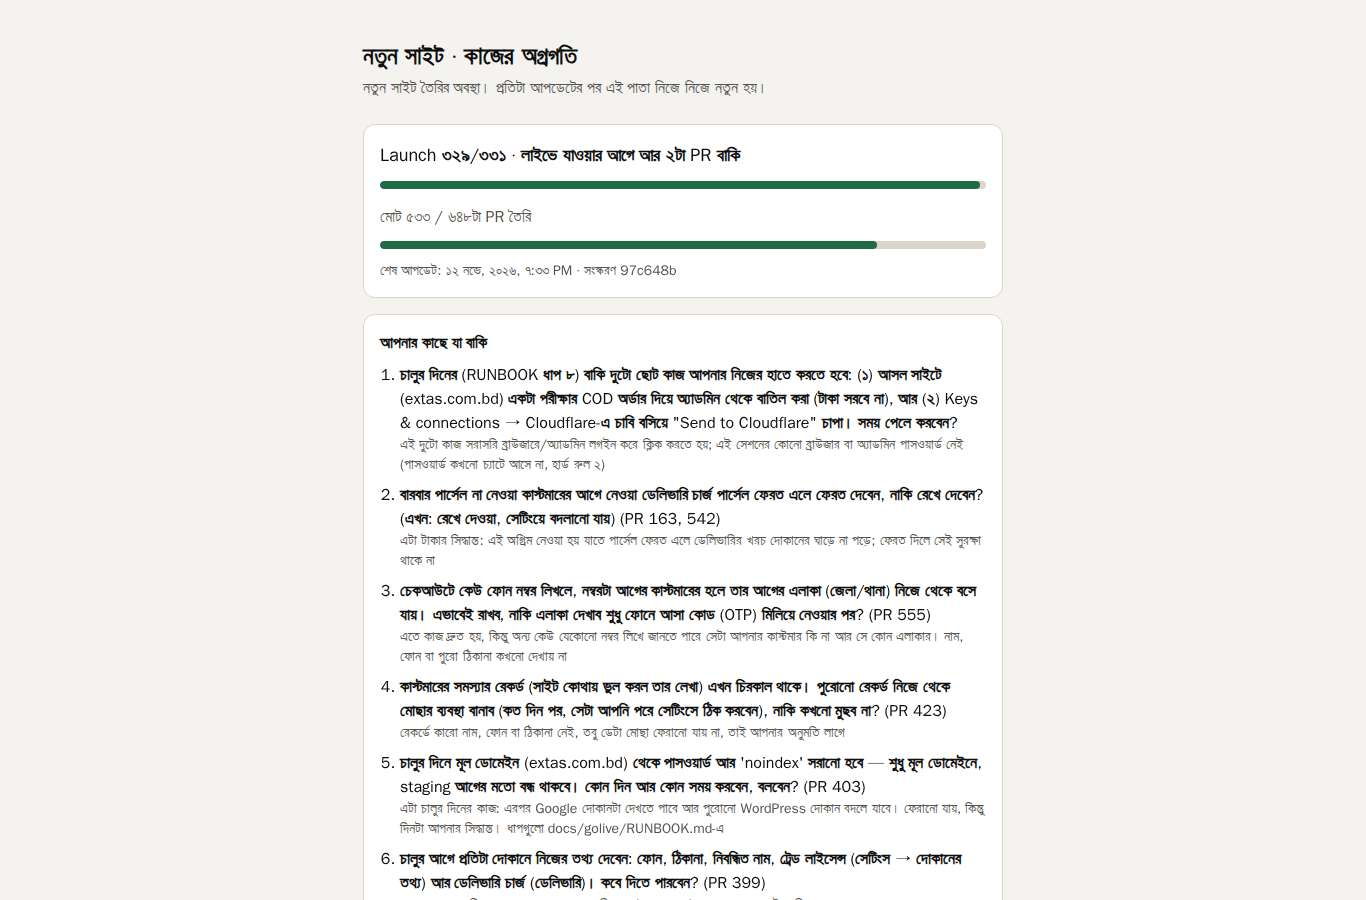
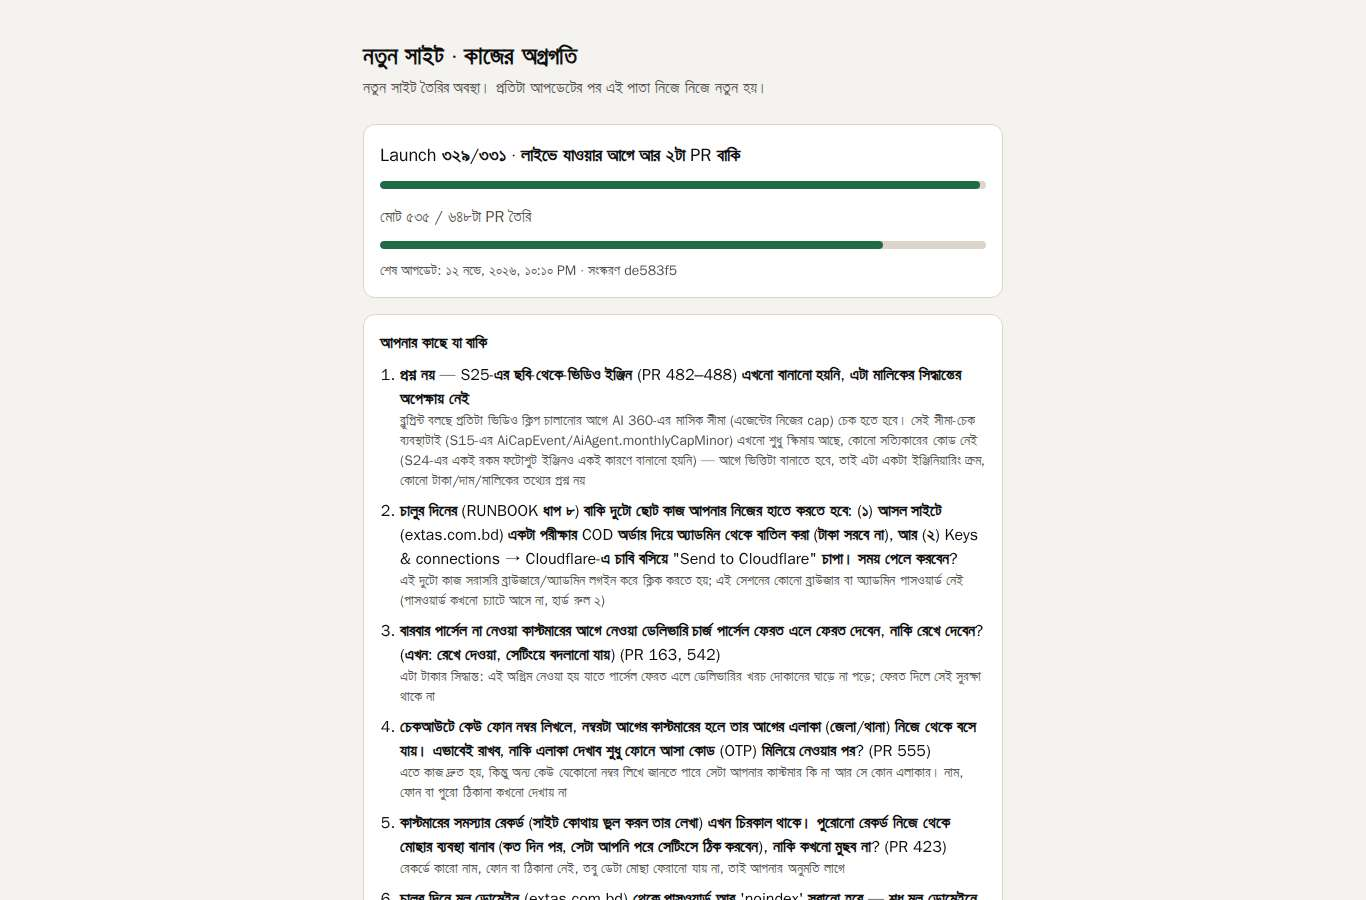
deploy report: de583f5687e9 FAILED, ROLLED BACK [skip ci]

Changed region(s): [[0.2767, 0.4044, 0.7379, 1.0], [0.369, 0.28, 0.4919, 0.3111]]

diff --git a/docs/reports/smoke/latest/README.md b/docs/reports/smoke/latest/README.md
@@ -1,8 +1,8 @@
-# Smoke test · 2026-11-12 20:25 (Asia/Dhaka)
+# Smoke test · 2026-11-12 22:10 (Asia/Dhaka)
 
-> **বাংলায়:** সব পাতা ঠিকমতো খুলেছে (566টা পাতা, ফোন আর কম্পিউটারে)। কোনো সমস্যা নেই।
+> **বাংলায়:** 0টা পাতায় সমস্যা পাওয়া গেছে। সাইট নিজে থেকে আগের ভালো ভার্সনে ফিরে যাচ্ছে; ঠিক করার কাজ সবার আগে হচ্ছে।
 
-Site: https://new.extas.com.bd · commit `97c648bfa222` · nightly · result **PASS** (566 page views, 0 failed)
+Site: https://new.extas.com.bd · commit `de583f5687e9` · after deploy · result **FAIL** (565 page views, 0 failed)
 
 | Page | Screen | Answer | Landed on | Result | Screenshot |
 |---|---|:-:|---|---|---|
@@ -186,6 +186,7 @@ Site: https://new.extas.com.bd · commit `97c648bfa222` · nightly · result **P
 | `/admin/reports/health/history` | phone | 200 | `/admin/reports/health/history` | ok | — |
 | `/admin/reports/health/fixes` | phone | 200 | `/admin/reports/health/fixes` | ok | — |
 | `/admin/ai/audit` | phone | 200 | `/admin/ai/audit` | ok | — |
+| `/admin/ai/reports` | phone | 200 | `/admin/ai/reports` | ok | — |
 | `/admin/money/refunds` | phone | 200 | `/admin/money/refunds` | ok | — |
 | `/admin/money/refunds?view=all` | phone | 200 | `/admin/money/refunds` | ok | — |
 | `/admin/reports/delivery` | phone | 200 | `/admin/reports/delivery` | ok | — |
@@ -231,6 +232,7 @@ Site: https://new.extas.com.bd · commit `97c648bfa222` · nightly · result **P
 | `/admin/marketing/studio` | phone | 200 | `/admin/marketing/studio` | ok | — |
 | `/admin/marketing/studio/motion` | phone | 200 | `/admin/marketing/studio/motion` | ok | — |
 | `/admin/marketing/studio/videos` | phone | 200 | `/admin/marketing/studio/videos` | ok | — |
+| `/admin/marketing/studio/overlay` | phone | 200 | `/admin/marketing/studio/overlay` | ok | — |
 | `/admin/website/words` | phone | 200 | `/admin/website/words` | ok | — |
 | `/admin/website/eye-toggles` | phone | 200 | `/admin/website/eye-toggles` | ok | — |
 | `/admin/website/side-canvas` | phone | 200 | `/admin/website/side-canvas` | ok | — |
@@ -282,11 +284,6 @@ Site: https://new.extas.com.bd · commit `97c648bfa222` · nightly · result **P
 | `/admin/website/blog/pipeline` | phone | 200 | `/admin/website/blog/pipeline` | ok | — |
 | `/admin/marketing/geo-guide` | phone | 200 | `/admin/marketing/geo-guide` | ok | — |
 | `/admin/marketing/merchant-feed` | phone | 200 | `/admin/marketing/merchant-feed` | ok | — |
-| `/admin/orders/01a1b61a-a11b-7d82-bdea-f4c089401719` | phone | 200 | `/admin/orders/01a1b61a-a11b-7d82-bdea-f4c089401719` | ok | — |
-| `/admin/customers/01a1b61a-a118-7bf3-acad-0f8b6b421a94` | phone | 200 | `/admin/customers/01a1b61a-a118-7bf3-acad-0f8b6b421a94` | ok | — |
-| `/admin/reports/health/problems/01a19735-6496-70c1-9ccd-6741cd32073a` | phone | 200 | `/admin/reports/health/problems/01a19735-6496-70c1-9ccd-6741cd32073a` | ok | — |
-| `/admin/reports/health/history/01a1cfdc-04f8-75d3-a735-4b86239313f0` | phone | 200 | `/admin/reports/health/history/01a1cfdc-04f8-75d3-a735-4b86239313f0` | ok | — |
-| `/admin/customers/01a1b61a-a118-7bf3-acad-0f8b6b421a94?tab=wallet` | phone | 200 | `/admin/customers/01a1b61a-a118-7bf3-acad-0f8b6b421a94` | ok | — |
 | `/admin/combos?tab=report` | phone | 200 | `/admin/combos` | ok | — |
 | `/admin?home=1` | phone | 200 | `/admin` | ok | [picture](admin-home-1-phone.jpg) |
 | `/` | desktop | 200 | `/` | ok | [picture](home-desktop.jpg) |
@@ -469,6 +466,7 @@ Site: https://new.extas.com.bd · commit `97c648bfa222` · nightly · result **P
 | `/admin/reports/health/history` | desktop | 200 | `/admin/reports/health/history` | ok | — |
 | `/admin/reports/health/fixes` | desktop | 200 | `/admin/reports/health/fixes` | ok | — |
 | `/admin/ai/audit` | desktop | 200 | `/admin/ai/audit` | ok | — |
+| `/admin/ai/reports` | desktop | 200 | `/admin/ai/reports` | ok | — |
 | `/admin/money/refunds` | desktop | 200 | `/admin/money/refunds` | ok | — |
 | `/admin/money/refunds?view=all` | desktop | 200 | `/admin/money/refunds` | ok | — |
 | `/admin/reports/delivery` | desktop | 200 | `/admin/reports/delivery` | ok | — |
@@ -514,6 +512,7 @@ Site: https://new.extas.com.bd · commit `97c648bfa222` · nightly · result **P
 | `/admin/marketing/studio` | desktop | 200 | `/admin/marketing/studio` | ok | — |
 | `/admin/marketing/studio/motion` | desktop | 200 | `/admin/marketing/studio/motion` | ok | — |
 | `/admin/marketing/studio/videos` | desktop | 200 | `/admin/marketing/studio/videos` | ok | — |
+| `/admin/marketing/studio/overlay` | desktop | 200 | `/admin/marketing/studio/overlay` | ok | — |
 | `/admin/website/words` | desktop | 200 | `/admin/website/words` | ok | — |
 | `/admin/website/eye-toggles` | desktop | 200 | `/admin/website/eye-toggles` | ok | — |
 | `/admin/website/side-canvas` | desktop | 200 | `/admin/website/side-canvas` | ok | — |
@@ -568,9 +567,20 @@ Site: https://new.extas.com.bd · commit `97c648bfa222` · nightly · result **P
 | `/admin/orders/01a1b61a-a11b-7d82-bdea-f4c089401719` | desktop | 200 | `/admin/orders/01a1b61a-a11b-7d82-bdea-f4c089401719` | ok | — |
 | `/admin/customers/01a1b61a-a118-7bf3-acad-0f8b6b421a94` | desktop | 200 | `/admin/customers/01a1b61a-a118-7bf3-acad-0f8b6b421a94` | ok | — |
 | `/admin/reports/health/problems/01a19735-6496-70c1-9ccd-6741cd32073a` | desktop | 200 | `/admin/reports/health/problems/01a19735-6496-70c1-9ccd-6741cd32073a` | ok | — |
-| `/admin/reports/health/history/01a1cfdc-04f8-75d3-a735-4b86239313f0` | desktop | 200 | `/admin/reports/health/history/01a1cfdc-04f8-75d3-a735-4b86239313f0` | ok | — |
+| `/admin/reports/health/history/01a1d038-f87e-79a3-a768-344efda63018` | desktop | 200 | `/admin/reports/health/history/01a1d038-f87e-79a3-a768-344efda63018` | ok | — |
 | `/admin/customers/01a1b61a-a118-7bf3-acad-0f8b6b421a94?tab=wallet` | desktop | 200 | `/admin/customers/01a1b61a-a118-7bf3-acad-0f8b6b421a94` | ok | — |
 | `/admin/combos?tab=report` | desktop | 200 | `/admin/combos` | ok | — |
 | `/admin?home=1` | desktop | 200 | `/admin` | ok | [picture](admin-home-1-desktop.jpg) |
+
+Other problems:
+
+- check (PR 643): Money › Books (the ERP account) draws in the Lumen look and follows dark mode (CN-036): page.waitForSelector: Timeout 15000ms exceeded.
+- check (PR 643): Money › Daily books draws in the Lumen look and follows dark mode (CN-036): page.waitForSelector: Timeout 15000ms exceeded.
+- check (PR 643): Money › Books match draws in the Lumen look and follows dark mode (CN-036): page.waitForSelector: Timeout 15000ms exceeded.
+- check (PR 643): Money › Books differences draws in the Lumen look and follows dark mode (CN-036): page.waitForSelector: Timeout 15000ms exceeded.
+- check (PR 643): Money › Books closes draws in the Lumen look and follows dark mode (CN-036): page.waitForSelector: Timeout 15000ms exceeded.
+- check (PR 643): Money › Month end draws in the Lumen look and follows dark mode (CN-036): page.waitForSelector: Timeout 15000ms exceeded.
+- check (PR 644): Reports › Team draws in the Lumen look and follows dark mode (CN-036): page.waitForSelector: Timeout 15000ms exceeded.
+- check (PR 644): Reports › Delivery & RTO draws in the Lumen look and follows dark mode (CN-036): page.waitForSelector: Timeout 15000ms exceeded.
 
 Database (PR 139): ok: 36 tables append-only; the app connects as extas_app.

diff --git a/docs/reports/server/deploy-latest.md b/docs/reports/server/deploy-latest.md
@@ -4,12 +4,13 @@ Written by `deploy.yml` after every deploy (`infra/deploy/deploy-report.sh`). Hi
 
 | | |
 |---|---|
-| Commit | `97c648bfa222` |
-| Time (Asia/Dhaka) | 2026-11-12 19:53 |
-| Result | **FAILED** |
+| Commit | `de583f5687e9` |
+| Time (Asia/Dhaka) | 2026-11-12 22:21 |
+| Result | **FAILED, ROLLED BACK** |
 | Database migration | ok |
-| Health check on new.extas.com.bd | OK — HTTP 200 from https://new.extas.com.bd/api/health |
-| Docs on the server | `97c648bfa222` — README.md + docs/ (2457 files) |
+| Health check on new.extas.com.bd | OK — HTTP 200 from https://new.extas.com.bd/api/health, version de583f5687e9, colour blue |
+| Smoke test (every page) | FAILED — check (PR 643): Money › Books (the ERP account) draws in the Lumen look and follows dark mode (CN-036): page.waitForSelector: Timeout 15000ms exceeded.; check (PR 643): Money › Daily books draws in the Lumen look and follows dark mode (CN-036): page.waitForSelector: Timeout 15000ms exceeded.; ch |
+| Docs on the server | `de583f5687e9` — README.md + docs/ (2460 files) |
 | Main disk (/) | 118 GB free after the clean-up (was 118 GB), at least 15 GB needed |
-| What failed | The deploy stopped: new version did not become healthy; live version unchanged. |
-| Run log | https://github.com/mehadih32/Extas-Ecommerce-Site/actions/runs/43231590601 |
+| What failed | The new version went live, but the smoke test found a problem (check (PR 643): Money › Books (the ERP account) draws in the Lumen look and follows dark mode (CN-036): page.waitForSelector: Timeout 15000ms exceeded.; check (PR 643): Money › Daily books draws in the Lumen look and follows dark mode (CN-036): page.waitForSelector: Timeout 15000ms exceeded.; ch), so the previous version was put back automatically. The fix comes before any new work. |
+| Run log | https://github.com/mehadih32/Extas-Ecommerce-Site/actions/runs/43255072059 |

diff --git a/docs/reports/server/deploy-history.md b/docs/reports/server/deploy-history.md
@@ -134,3 +134,4 @@ One line per deploy, newest last, appended by `deploy.yml`. Time: Asia/Dhaka.
 | 2026-11-12 19:05 | `4893f4decdfb` | deploy | FAILED, ROLLED BACK | ok | OK, smoke FAILED | The new version went live, but the smoke test found a problem (/reset: answered 401 with no cookie at all, expected 200 (no auth); /reset: no Clear-Site-Data "cookies" header (got "")), so the previous version was put back automatically. The fix comes before any new work. |
 | 2026-11-12 19:36 | `97c648bfa222` | deploy | FAILED, ROLLBACK FAILED | ok | OK, smoke FAILED | The smoke test found a problem (the smoke test did not finish (exit 1)) and putting the previous version back failed too (see the run log). |
 | 2026-11-12 19:53 | `97c648bfa222` | deploy | FAILED | ok | OK | The deploy stopped: new version did not become healthy; live version unchanged. |
+| 2026-11-12 22:21 | `de583f5687e9` | deploy | FAILED, ROLLED BACK | ok | OK, smoke FAILED | The new version went live, but the smoke test found a problem (check (PR 643): Money › Books (the ERP account) draws in the Lumen look and follows dark mode (CN-036): page.waitForSelector: Timeout 15000ms exceeded.; check (PR 643): Money › Daily books draws in the Lumen look and follows dark mode (CN-036): page.waitForSelector: Timeout 15000ms exceeded.; ch), so the previous version was put back automatically. The fix comes before any new work. |

diff --git a/docs/reports/erp-acceptance/latest/README.md b/docs/reports/erp-acceptance/latest/README.md
@@ -1,6 +1,6 @@
 # ERP acceptance — demo ERP
 
-**সারকথা:** এবার ডেমো ERP-এর পরীক্ষা চালানো যায়নি (দোকানের ডেটাবেস পড়া যায়নি); কোনো পরীক্ষা ফেল ধরা হয়নি। পরের রানে আবার চলবে।
+**সারকথা:** ডেমো ERP-এর চাবির অপেক্ষায়। মালিক সেটিংস → ERP সংযোগ পাতায় ডেমো দোকানের চাবি দিলে প্রতি রাতে আর প্রতিটা রিলিজের আগে এই পরীক্ষা চলবে।
 
-- 2026-11-12T13:53:33.139Z: not run. the shop's database could not be read: Error in connector: Error querying the database: FATAL: server login has been failing, cached error: connect failed (server_login_retry). Nothing was called; nothing failed.
+- 2026-11-12T16:09:24.044Z: waiting for the demo key. Nothing was called; nothing failed.
 - The practice ERP runs every check in CI (packages/adapters/test/erp-acceptance.test.ts, the books drills).
